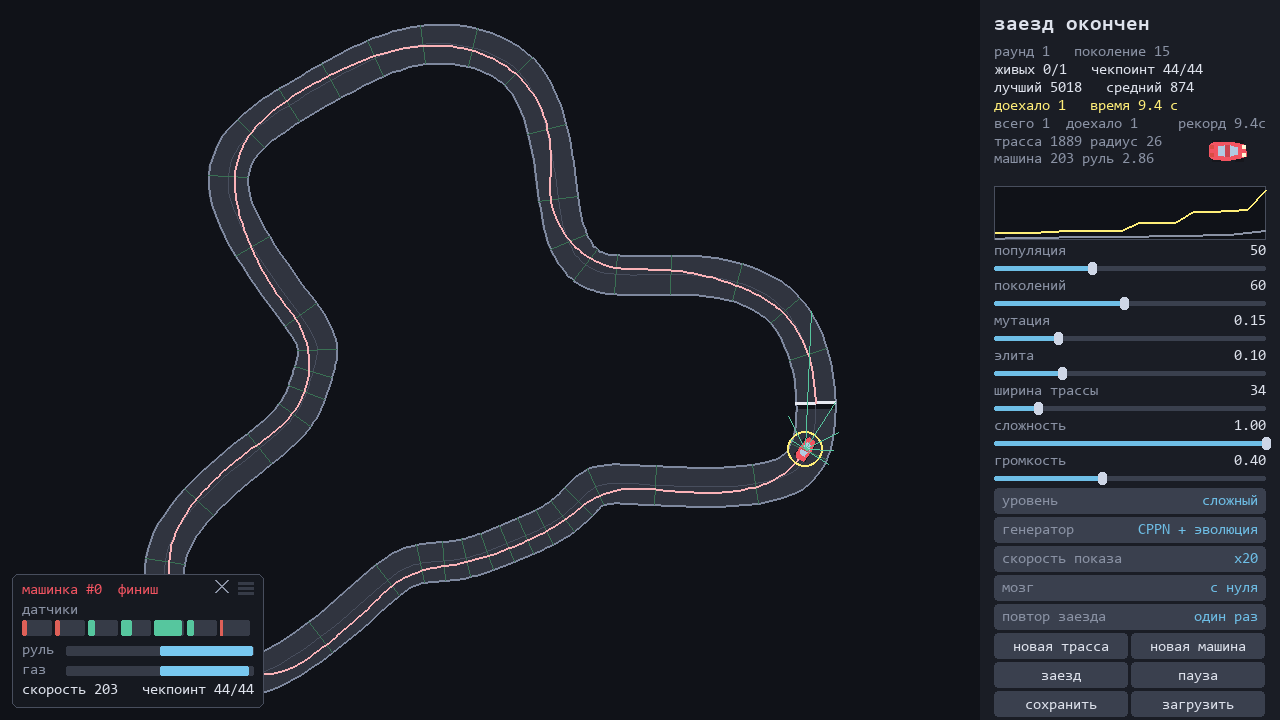
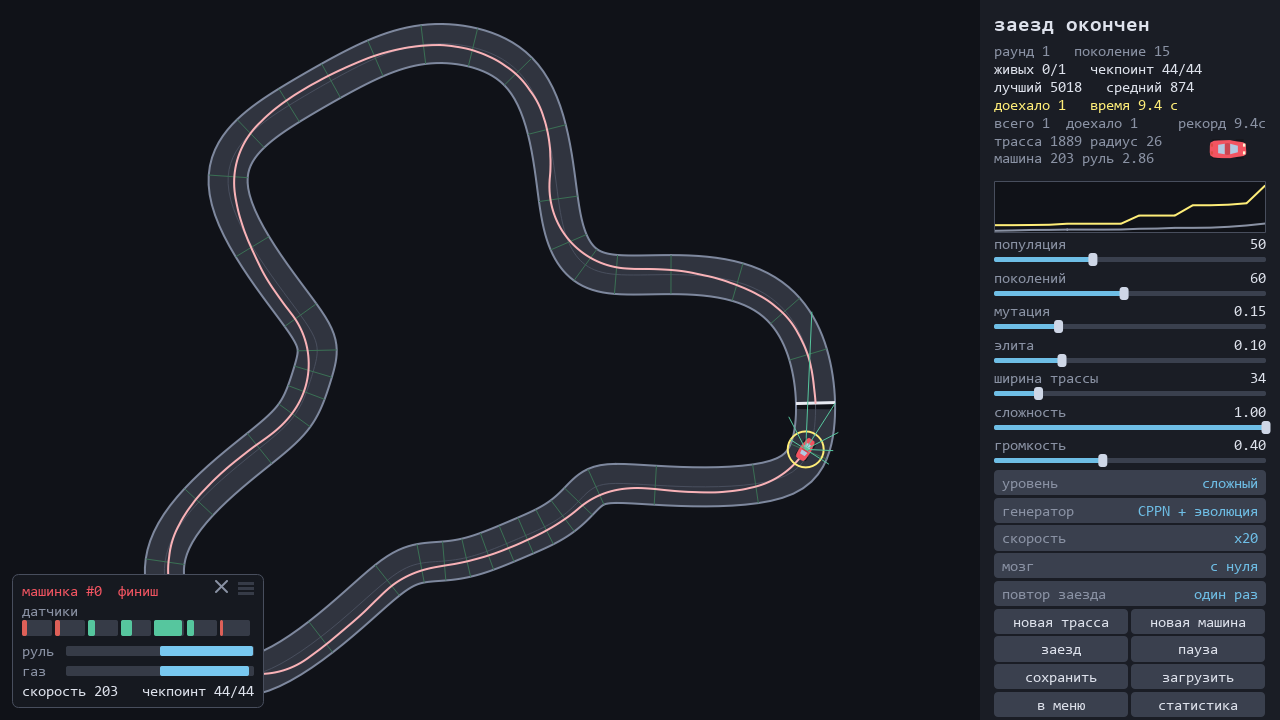
Кадры README через Qt offscreen: игра, заезд, меню, статистика, настройки, панель, трассы, генераторы, машинки - все одним скриптом; номер раунда на графике сквозной

diff --git a/tools/make_previews.py b/tools/make_previews.py
@@ -1,18 +1,20 @@
-"""Кадры игры для README: собираются программой, а не руками.
+"""Кадры для README: собираются программой, а не руками.
 
     python tools\\make_previews.py
 
-Игра запускается без окна - тем же способом, что и её собственная самопроверка:
-SDL с драйвером dummy рисует в обычную поверхность в памяти. Кадр берётся прямо с
-неё, через pygame.image.save.
+Игра запускается без окна на экране - тем же способом, что и её собственная самопроверка:
+Qt с платформой offscreen рисует в картинку в памяти, шрифты берёт из папки Windows
+(offscreen.py, иначе вместо букв квадратики). Кадр снимается с окна (widget.grab()) или
+с той же отрисовки игры (Game.snapshot()).
 
 Снимок экрана тут не годится дважды. Окно может оказаться позади других, и в кадр
 попадёт чужое содержимое. А главное - нужный момент руками не поймать: обучение
 идёт поколениями, и кадр «половина популяции уже разбилась в одном повороте»
 живёт доли секунды. Скрипт вместо этого прокручивает ровно столько кадров,
 сколько нужно, с постоянным зерном - и картинка повторяется от прогона к прогону.
-"""
 
+Статистика на кадрах - из раундов, сыгранных здесь же во временной папке, а не личная.
+"""
 import os
 import sys
 from pathlib import Path
@@ -20,16 +22,25 @@ from pathlib import Path
 ROOT = Path(__file__).resolve().parent.parent
 OUT = ROOT / "docs"
 sys.path.insert(0, str(ROOT))
+for _var in ("OPENBLAS_NUM_THREADS", "OMP_NUM_THREADS"):
+    os.environ.setdefault(_var, "4")
 
-# До импорта pygame: иначе он уже создаст настоящее окно.
-os.environ.setdefault("SDL_VIDEODRIVER", "dummy")
-os.environ.setdefault("SDL_AUDIODRIVER", "dummy")
+import offscreen  # noqa: E402
 
-import pygame  # noqa: E402
+offscreen.setup(force=True)
 
+import numpy as np  # noqa: E402
+from PySide6.QtWidgets import QApplication  # noqa: E402
+
+import car  # noqa: E402
+import config as cfg  # noqa: E402
+import main  # noqa: E402
 import render  # noqa: E402
 import stats  # noqa: E402
-from main import DONE, Game  # noqa: E402
+import track  # noqa: E402
+import trackgen  # noqa: E402
+import window  # noqa: E402
+from rect import Rect  # noqa: E402
 
 SEED = 7
 # Докуда крутить. Первый кадр - середина обучения: нужен момент, когда часть
@@ -37,42 +48,154 @@ SEED = 7
 # повороте гибнет поколение. Второй - конец: победитель на финише и вся сводка.
 MID_GENERATION = 4
 LIMIT = 4000
+LABEL = (150, 158, 176)
 
 
-def кадр(game, name):
-    game.screen.fill(render.BG)
-    game.draw_field()
-    game.draw_panel()
+def save(image, name):
     path = OUT / name
-    pygame.image.save(game.screen, str(path))
-    print(f"  {name} ({path.stat().st_size // 1024} КБ)")
+    image.save(str(path))
+    print(f"  {name} ({image.width()}x{image.height()}, {path.stat().st_size // 1024} КБ)")
 
 
-def main() -> None:
-    OUT.mkdir(parents=True, exist_ok=True)
-    # Скрипт доигрывает раунд до конца, а конец раунда пишет статистику игрока.
-    stats.use_sandbox("aicar-previews-")
-    game = Game(seed=SEED)
-    game.ui.widgets["speed"].index = 2   # без отрисовки каждого кадра - быстрее прокрутка
-
-    снято = False
+def game_frames():
+    game = main.Game(seed=SEED)
+    game.ui.widgets["speed"].index = 2   # x20 - быстрее прокрутка
+    shot = False
     for n in range(LIMIT):
-        game.advance()
+        game.frame()
         # Момент для первого кадра ищется по состоянию гонки, а не по номеру
         # кадра: на другой трассе то же число кадров пришлось бы на другое место.
-        if (not снято and len(game.history) >= MID_GENERATION
-                and 5 <= game.race.n_alive < game.race.n):
-            кадр(game, "preview_game.png")
-            снято = True
-        if game.state == DONE:
+        if not shot and len(game.history) >= MID_GENERATION and 5 <= game.race.n_alive < game.race.n:
+            save(game.snapshot(), "preview_game.png")
+            save(game.snapshot().copy(game.panel_rect.qrect()), "preview_panel.png")
+            save(game.snapshot(game.draw_field).copy(game.view.qrect()), "preview_track.png")
+            shot = True
+        if game.state == main.DONE:
             break
     print(f"прокручено кадров: {n + 1}, поколений {len(game.history)}, состояние {game.state}")
-    if not снято:
-        кадр(game, "preview_game.png")
-    кадр(game, "preview_showcase.png")
-    pygame.quit()
+    if not shot:
+        save(game.snapshot(), "preview_game.png")
+    save(game.snapshot(), "preview_showcase.png")
+
+
+def play_round(game, level, generator):
+    """Настоящий раунд до конца: уровень и генератор - как если бы игрок их выбрал."""
+    game.ui.widgets["level"].index = main.LEVEL_NAMES.index(level)
+    game.apply_level()
+    names = game.ui.widgets["generator"].options
+    game.ui.widgets["generator"].index = names.index(generator) if generator in names else 0
+    game.new_round(new_track=True, new_car=True)
+    for _ in range(200):
+        game.frame()
+        if game.state != main.TRAINING:
+            break
+    last = game.history[-1]
+    print(f"  раунд {game.rounds}: {level}, {generator}, поколений {len(game.history)}, "
+          f"доехало {last.finished}")
+
+
+def screens():
+    """Меню, статистика после нескольких настоящих раундов, настройки."""
+    game = main.Game(seed=21, start=False)
+    win = window.MainWindow(game)
+    win.resize(cfg.WINDOW_W, cfg.WINDOW_H)
+    win.show()
+    QApplication.processEvents()
+    save(win.grab().toImage(), "preview_menu.png")
+
+    game.ui.widgets["speed"].index = 3                 # поколение за кадр
+    for level, generator in (("сложный", main.GEN_CPPN), ("обычный", main.GEN_MODEL),
+                             ("лёгкий", main.GEN_MODEL), ("сложный", main.GEN_MODEL),
+                             ("адский", main.GEN_CPPN), ("сложный", main.GEN_MODEL),
+                             ("сложный", main.GEN_CPPN)):
+        play_round(game, level, generator)
+    win.show_stats(win.menu)
+    QApplication.processEvents()
+    save(win.grab().toImage(), "preview_stats.png")
+
+    win.show_settings()
+    QApplication.processEvents()
+    save(win.grab().toImage(), "preview_settings.png")
+    win.close()
+
+
+def label(p, font, text, x, y):
+    render.text(p, font, text, LABEL, x, y)
+
+
+def draw_track_cell(p, trk, cell, font, caption):
+    cam = render.Camera(cell, trk.lo, trk.hi, margin=22.0)
+    p.save()
+    p.setClipRect(cell.qrectf())
+    render.draw_track(p, cam, trk)
+    p.restore()
+    label(p, font, caption, cell.left + 8, cell.top + 6)
+
+
+def tracks():
+    font = render.font(13)
+    w, h = 330, 240
+    image = render.canvas(3 * w, 2 * h)
+    p = render.painter(image)
+    for seed in range(6):
+        trk = track.evolve_track(np.random.default_rng(seed))
+        cell = Rect((seed % 3) * w, (seed // 3) * h, w, h)
+        draw_track_cell(p, trk, cell, font,
+                        f"seed {seed}  интерес {trk.variety:.0f}  радиус {trk.min_radius:.0f}")
+    p.end()
+    save(image, "preview_tracks.png")
+
+
+def generators():
+    if not trackgen.available():
+        print("  модели трасс нет - preview_generators.png пропущен")
+        return
+    font = render.font(13)
+    w, h = 330, 240
+    image = render.canvas(4 * w, 2 * h)
+    p = render.painter(image)
+    model = trackgen.Generator()
+    for i in range(4):
+        trk = model.make_track(np.random.default_rng(100 + i))
+        draw_track_cell(p, trk, Rect(i * w, 0, w, h), font, f"модель #{i + 1}  интерес {trk.variety:.0f}")
+        trk = track.evolve_track(np.random.default_rng(200 + i))
+        draw_track_cell(p, trk, Rect(i * w, h, w, h), font, f"CPPN #{i + 1}  интерес {trk.variety:.0f}")
+    p.end()
+    save(image, "preview_generators.png")
+
+
+def cars():
+    font = render.font(13)
+    w, h = 170, 140
+    image = render.canvas(5 * w, 3 * h, render.PANEL_BG)
+    p = render.painter(image)
+    rng = np.random.default_rng(3)
+    for i in range(15):
+        veh = car.random_car(rng)
+        cell = Rect((i % 5) * w, (i // 5) * h, w, h)
+        render.draw_car_badge(p, veh, (cell.centerx, cell.top + 58), 3.2)
+        label(p, font, f"{veh.length:.0f}x{veh.width:.0f}  v{veh.max_speed:.0f}  руль {veh.max_steer:.1f}",
+              cell.left + 8, cell.bottom - 30)
+    p.end()
+    save(image, "preview_cars.png")
+
+
+def main_previews() -> None:
+    sys.stdout.reconfigure(encoding="utf-8")
+    OUT.mkdir(parents=True, exist_ok=True)
+    offscreen.app()
+    # Скрипт доигрывает раунды до конца, а конец раунда пишет статистику игрока.
+    stats.use_sandbox("aicar-previews-")
+    print("игра:")
+    game_frames()
+    print("экраны:")
+    screens()
+    print("трассы, генераторы, машинки:")
+    tracks()
+    generators()
+    cars()
     print(f"Готово: {OUT}")
 
 
 if __name__ == "__main__":
-    main()
+    main_previews()

diff --git a/stats_screen.py b/stats_screen.py
@@ -250,9 +250,9 @@ class StatsScreen(QWidget):
 
     # --- данные ---------------------------------------------------------------------------
 
-    def refresh(self, totals, history=None, round_no=None, live=False):
-        """totals - итоги (stats.load_totals); history - поколения идущего раунда из игры,
-        round_no и live - его номер и идёт ли обучение: тогда главный график - про него."""
+    def refresh(self, totals, history=None, live=False):
+        """totals - итоги (stats.load_totals); history - поколения раунда из игры, live - идёт
+        ли его обучение (тогда он ещё не записан, и главный график - про него)."""
         rounds, finished = totals.get("rounds", 0), totals.get("finished", 0)
         self.values["rounds"].setText(str(rounds))
         self.values["finished"].setText(str(finished))
@@ -291,17 +291,19 @@ class StatsScreen(QWidget):
         self.cars_label.setText(self._cars(cars(totals)))
 
         points = curves(totals, history)
-        self.chart_training.title = self._training_title(totals, history, round_no, live)
+        self.chart_training.title = self._training_title(totals, history, live)
         self.chart_training.set_points(points["training"], points["training_mean"])
         self.chart_gens.set_points(points["gens"])
         self.chart_time.set_points(points["time"])
         self.chart_progress.set_points(points["progress"])
 
     @staticmethod
-    def _training_title(totals, history, round_no, live):
-        """Какой раунд на графике: идущий (из игры) или последний записанный (из файла)."""
-        if history and len(history) >= 2 and round_no:
-            return f"{TRAINING_TITLE}: раунд {round_no}" + (", идёт" if live else "")
+    def _training_title(totals, history, live):
+        """Какой раунд на графике. Номер - сквозной, как у графиков по раундам (из файла), а не
+        счёт раундов этого запуска игры: идущий раунд - следующий за записанными."""
+        rounds = totals.get("rounds", 0)
+        if live and history and len(history) >= 2 and _num(rounds):
+            return f"{TRAINING_TITLE}: раунд {rounds + 1}, идёт"
         log = entries(totals)
         n = log[-1].get("n") if log else None
         return f"{TRAINING_TITLE}: раунд {n}" if _num(n) else TRAINING_TITLE

diff --git a/tests/test_stats_screen.py b/tests/test_stats_screen.py
@@ -200,8 +200,10 @@ def test_the_live_round_is_shown_while_training(screen, real_stats_file):
     class S:
         def __init__(self, best, mean):
             self.best, self.mean = best, mean
-    screen.refresh(stats.load_totals(str(real_stats_file)), [S(10, 1), S(20, 2), S(35, 4)], 9, live=True)
-    assert screen.chart_training.title.endswith("раунд 9, идёт")
+    totals = stats.load_totals(str(real_stats_file))
+    screen.refresh(totals, [S(10, 1), S(20, 2), S(35, 4)], live=True)
+    # номер сквозной: идущий раунд - следующий за записанными в файл
+    assert screen.chart_training.title.endswith(f"раунд {totals['rounds'] + 1}, идёт")
     assert screen.chart_training.points[-1] == (2.0, 35.0)
 
 

diff --git a/window.py b/window.py
@@ -275,7 +275,7 @@ class MainWindow(QMainWindow):
         self.stats_from = came_from or self.menu
         g = self.game
         self.stats_screen.back_button.setText("К игре" if self.stats_from is self.view else "В меню")
-        self.stats_screen.refresh(g.totals, g.history if g.started else None, g.rounds,
+        self.stats_screen.refresh(g.totals, g.history if g.started else None,
                                   live=g.started and g.state == main.TRAINING)
         self.stack.setCurrentWidget(self.stats_screen)
         self.stats_screen.setFocus()

diff --git a/chart.py b/chart.py
@@ -203,7 +203,7 @@ class Chart(QWidget):
 
         # Ось x: деления с подписями и название оси под ними.
         axis = QPen(QColor(theme.MUTED), 1)
-        for t in x_ticks(x0, x1):
+        for t in x_ticks(x0, x1, most=int(max(6, min(12, plot.width() // 70)))):
             x = at(t, y0).x()
             p.setPen(axis)
             p.drawLine(QPointF(x, plot.bottom()), QPointF(x, plot.bottom() + 4))
